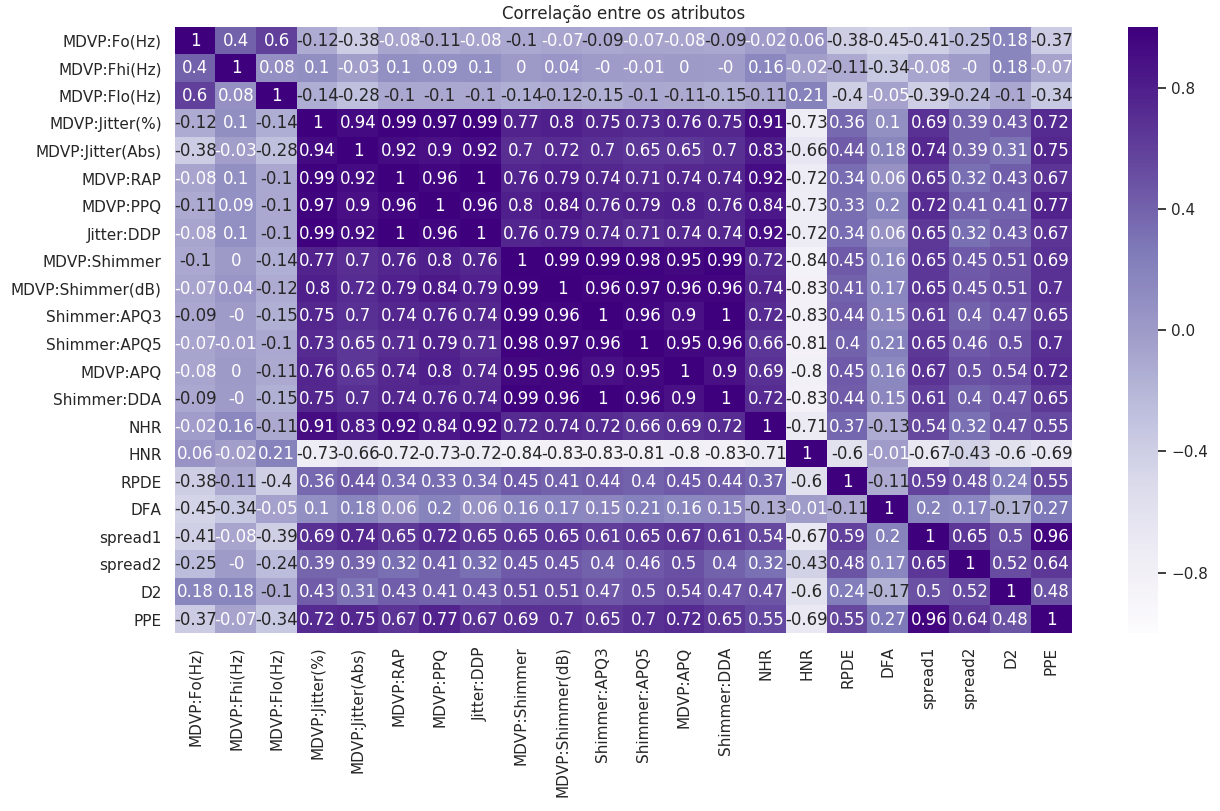
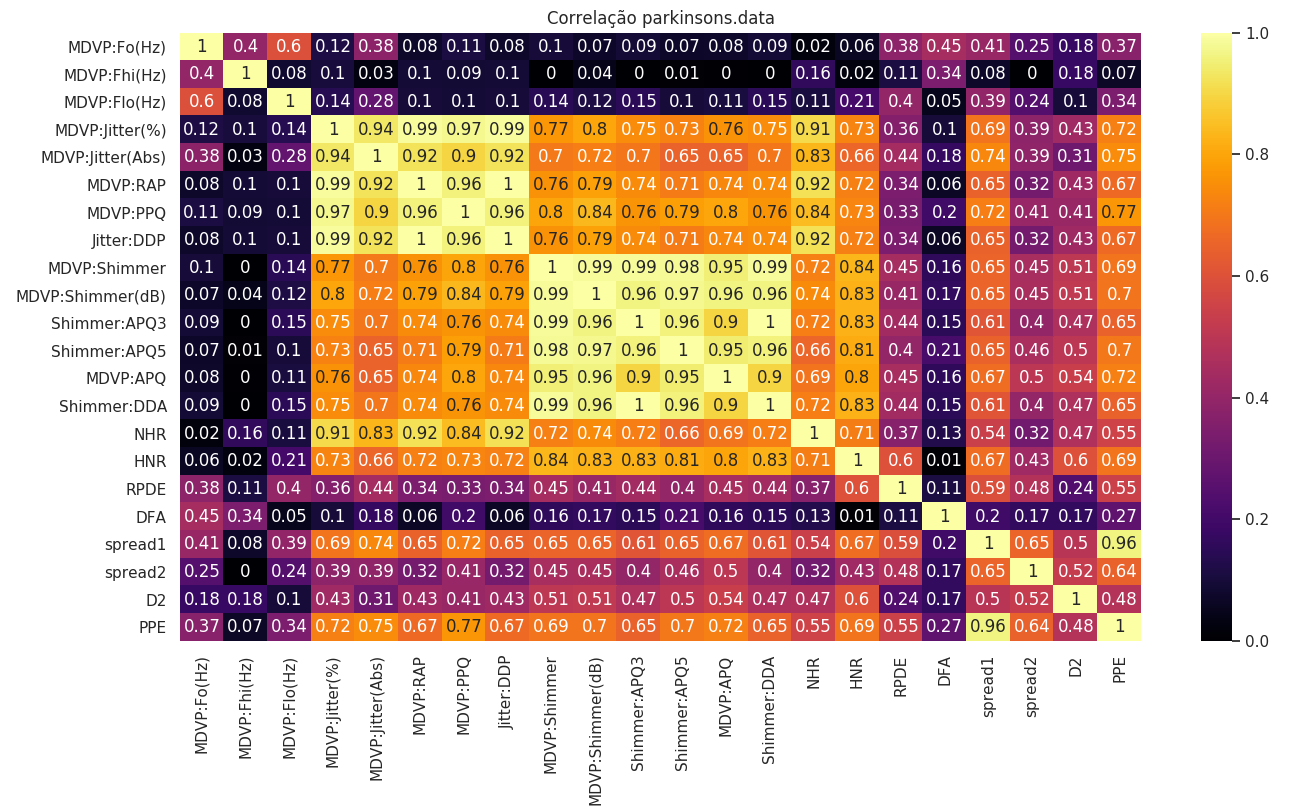
dor

diff --git a/tc2.py b/tc2.py
@@ -39,13 +39,29 @@ X_c0 = X_c0.drop(["default-payment-next-month"], axis=1)
 X_c1 = df.loc[df["default-payment-next-month"] == 1]
 X_c1 = X_c1.drop(["default-payment-next-month"], axis=1)
 
+X_trans = super_normalize(X)
+X_trans = super_unskew(X)
+X_trans = pd.DataFrame(X_trans, columns=X.columns)
+
 print("Amostras da classe 0: {}".format(X_c0.shape))
 print("Amostras da classe 1: {}".format(X_c1.shape))
 
+#================
+# Sobre os dados
+#================
+"""
+heatmap(X, "Correlação default-of-credit-card-clients.csv")
+stats = data_stats(X)
+stats.to_csv("data/tc2-datastats.csv")
+piechart(df, "default-payment-next-month", ["Pago", "Não Pago"],
+         "Proporção de amostras por classe default-of-credit-card-clients.csv")
+histogram(X, "Distribuição dos atributos default-of-credit-card-clients.csv")
+histogram(X_trans, "Distribuição dos atributos pré-processados default-of-credit-card-clients.csv")
+"""
 #==================================================
 # Resultado de classificação com dados sem reducao
 #==================================================
-
+"""
 ans = classify(classifiers, X, y, test_size, rounds)
 sumary(ans, "TC2 - classificacao sem reducao de dados")
 
@@ -55,11 +71,28 @@ sumary(ans, "TC2 - classificacao sem reducao de dados (normalizados)")
 ans = classify(classifiers, X, y, test_size, rounds, normalize=True,
                unskew=True)
 sumary(ans, "TC2 - classificacao sem reducao de dados (normalizados, unskew)")
+"""
 
-#=============================================================
-# Classificacao versus numero de prototipos - dados originais
-#=============================================================
+#===============================================
+# Teste preliminar - reducao com kmedias K=1000
+#===============================================
 
+print("classe 0...")
+X_c0_red, inertia0 = reduction_kmeans(X_c0, n=1000)
+print("classe 1...")
+X_c1_red, inertia1 = reduction_kmeans(X_c1, n=1000)
+X_red = np.concatenate((X_c0_red, X_c1_red))
+y_c0 = np.zeros((1000, ), dtype=int)
+y_c1 = np.ones((1000, ), dtype=int)
+y_red = np.concatenate((y_c0, y_c1))
+print("classificando...")
+ans = classify(classifiers, X_red, y_red, test_size, rounds)
+sumary(ans, "TC2 - desempenho com kmedias K=1000")
+
+#===========================================
+# Classificacao versus numero de prototipos
+#===========================================
+""""
 data = {"NN" : [], "DMC" : [], "CQG" : []}
 inertias = {"inertia0" : [], "inertia1" : []}
 n_init = 100
@@ -83,7 +116,8 @@ for n in vector:
 	y_c0 = np.zeros((n, ), dtype=int)
 	y_c1 = np.ones((n, ), dtype=int)
 	y_red = np.concatenate((y_c0, y_c1))
-
+	
+	print("classificando...")
 	ans = classify(classifiers, X_red, y_red, test_size, rounds)
 	
 	nn = round(np.mean(ans["NN"]["score"])*100, 2)
@@ -115,4 +149,4 @@ plt.ylabel("Precisão (%)")
 plt.ylim((0.0, 100.0))
 plt.legend(loc='upper center', bbox_to_anchor=(0.5, 1.09), ncol=3)
 plt.show()
-
+"""

diff --git a/recpad.py b/recpad.py
@@ -30,8 +30,55 @@ from sklearn.model_selection import train_test_split as data_split
 from sklearn.discriminant_analysis import LinearDiscriminantAnalysis as LDA
 from sklearn.discriminant_analysis import QuadraticDiscriminantAnalysis as CQG
 
-# Para desabilitar warnings chatos...
 warnings.filterwarnings("ignore")
+
+def heatmap(df, title):
+	corr = df.corr().abs()
+	annot = corr.round(decimals=2)
+	upper = corr.where(np.triu(np.ones(corr.shape), k=1).astype(np.bool))
+	to_drop = [c for c in upper.columns if any(upper[c] >= 0.9)]
+	super_corr = [c for c in upper.columns if any(upper[c] >= 0.98)]
+	print("drops sugeridos: " + str(to_drop))
+	print("super correlacoes: " + str(super_corr))
+	
+	sb.heatmap(corr, vmin=0, vmax=1.0, cmap="inferno", annot=annot)
+	plt.title(title)
+	plt.show()
+
+def data_stats(df):
+	mean = df.mean()
+	median = df.median()
+	minv = df.min()
+	maxv = df.max()
+	std = df.std()
+	
+	result = pd.concat([mean, median, minv, maxv, std], axis=1)
+	result.columns = ["Média", "Mediana", "Min", "Max", "Desvio"]
+	result = result.round(2)
+	
+	return result
+
+def pairplot(df, title):
+	sb.pairplot(df, markers="o", palette="GnBu_d", diag_kind="kde",
+		        plot_kws=dict(s=50, edgecolor="b", linewidth=1))
+	plt.subplots_adjust(left=0.06, bottom=0.07, right=0.98, top=0.92,
+	                    wspace=0.18, hspace=0.18)
+	plt.suptitle(title)
+	plt.show()
+
+def piechart(df, class_col, labels, title):
+	num = df[class_col].value_counts()
+	print(num)
+	num.plot.pie(labels=labels, autopct="%1.1f%%")
+	plt.title(title)
+	plt.ylabel("")
+	plt.show()
+
+def histogram(df, title):
+	df.hist()
+	plt.suptitle(title)
+	plt.subplots_adjust(0.16, 0.06, 0.86,0.90,0.30,0.68)
+	plt.show()
 
 def rank_covmatrix(X):
 	X_data = np.array(X)
@@ -127,18 +174,6 @@ def do_skewremoval(X_train, X_test):
 	X_test = transformer.transform(X_test)
 	
 	return X_train, X_test
-
-def data_stats(df):
-	mean = df.mean()
-	median = df.median()
-	minv = df.min()
-	maxv = df.max()
-	std = df.std()
-	
-	result = pd.concat([mean, median, minv, maxv, std], axis=1)
-	result.columns = ["Média", "Mediana", "Min", "Max", "Desvio"]
-	
-	return result
 
 def progress(count, total, status=''):
 	bar_len = 50

diff --git a/tc1.py b/tc1.py
@@ -38,6 +38,22 @@ X0 = X0.drop(["status"], axis=1)
 X1 = df.loc[df["status"] == 1]
 X1 = X1.drop(["status"], axis=1)
 
+X_trans = super_normalize(X)
+X_trans = super_unskew(X)
+X_trans = pd.DataFrame(X_trans, columns=X.columns)
+
+#================
+# Sobre os dados
+#================
+
+heatmap(X, "Correlação parkinsons.data")
+stats = data_stats(X)
+stats.to_csv("data/tc1-datastats.csv")
+piechart(df, "status", ["Parkinson", "Saudável"],
+         "Proporção de amostras por classe parkinsons.data")
+histogram(X, "Distribuição dos atributos parkinsons.data")
+histogram(X_trans, "Distribuição dos atributos pré-processados parkinsons.data")
+
 #================================================
 # Analise dos postos das matrizes de covariancia
 #================================================

diff --git a/tc3.py b/tc3.py
@@ -11,13 +11,7 @@ X = np.array(df)
 # Relacionamento par-a-par entre os atributos
 #=============================================
 
-sb.pairplot(df, markers="o", palette="GnBu_d", diag_kind="kde",
-            plot_kws=dict(s=50, edgecolor="b", linewidth=1))
-plt.subplots_adjust(left=0.06, bottom=0.07, right=0.98, top=0.92, wspace=0.18,
-                    hspace=0.18)
-plt.suptitle("Relacionamentos par-a-par entre os atributos")
-plt.savefig("figures/tc3/tc3-pairplot.png")
-plt.close()
+pairplot(df, "Relacionamentos par-a-par entre os atributos")
 
 #=============================================================
 # Relacionamento par-a-par entre os atributos (transformados)
